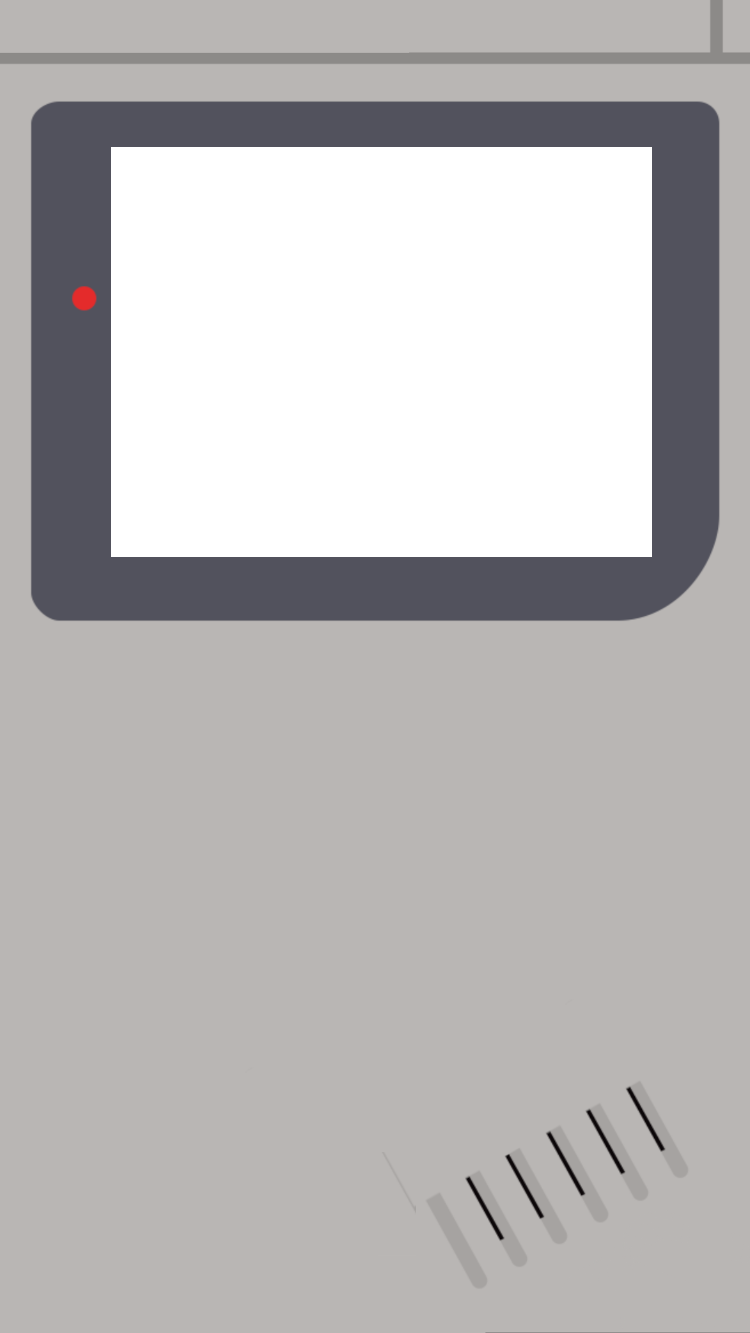
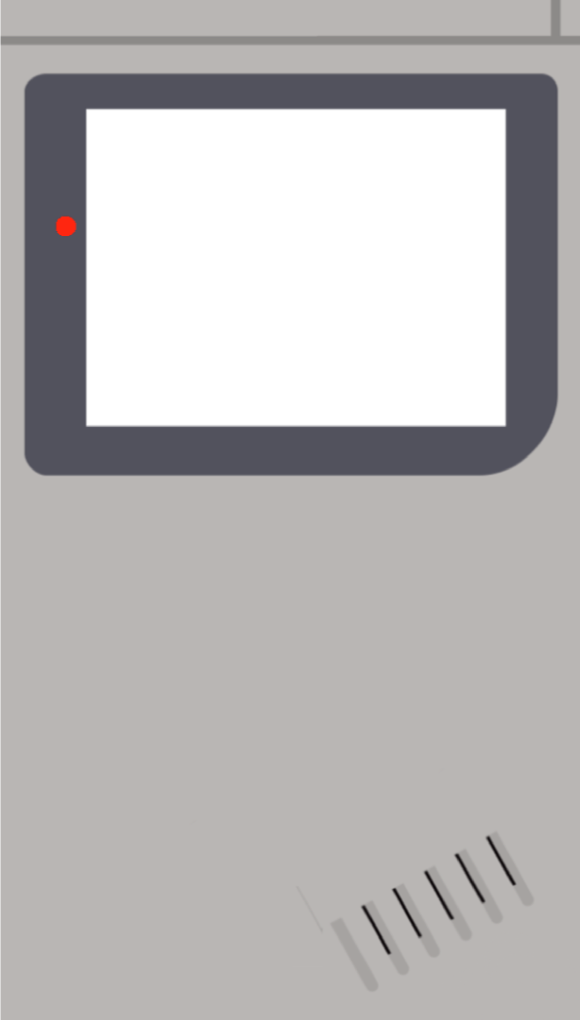
.

diff --git a/utils/UIManager.js b/utils/UIManager.js
@@ -2,11 +2,11 @@ class UIManager {
 	displayBlinkingUIMessage(content, position) {
 		const message0 = add([
 			text(content, {
-				size:34,
+				size:32,
 			}),
 			area(),
 			anchor("center"),
-			pos(380,520),
+			pos(300,160),
 			opacity(),
 			state("flash-up", ["flash-up", "flash-down"])
 			])
@@ -34,10 +34,10 @@ class UIManager {
 	displaySpaceMenu() {
 		add([sprite("black"),
 			anchor("center"),
-			pos(380,350),
+			pos(285,300),
 			scale(1),])
 	this.displayBlinkingUIMessage(
-		"spacebar = power switch")
+		"REMEMBER TO SAVE!")
 	onKeyPress("space", () => {
 		go("menu1")
 	})
@@ -45,45 +45,100 @@ class UIManager {
 	displayMenu() {
 		add([sprite("back00"),
 			anchor("center"),
-			pos(380,350),
-			scale(1),])
+			pos(285,260),
+			scale(.8),])
 		add([sprite("menu00"),
 			anchor("center"),
-			pos(380,255),
-			scale(3)])
+			pos(295,175),
+			scale(2.5)])
 		add([sprite("menu00"),
 			anchor("center"),
-			pos(380,350),
-			scale(3)])
+			pos(295,260),
+			scale(2.5)])
 		add([sprite("menu00"),
 			anchor("center"),
-			pos(380,445),
-			scale(3)])
+			pos(295,345),
+			scale(2.5)])
+
 	}
 	displayFrame() {
-		add([sprite('frame'),])
+		add([sprite("frame"),])
+		add([sprite("pwrbutton"),
+			anchor("center"),
+			pos(58, 440),
+			scale(3)])
+		add([sprite("button00"),
+			anchor("center"),
+			pos(515, 620),
+			scale(6.25)])
 		add([sprite("button01"),
 			anchor("center"),
-			pos(585, 825),
-			scale(6.5)])
-		add([sprite("button01"),
+			pos(400, 650),
+			scale(6.25)])
+		add([sprite("button02"),
 			anchor("center"),
-			pos(460, 865),
-			scale(6.5)])
+			pos(480, 730),
+			scale(6.25)])
+		add([sprite("button03"),
+			anchor("center"),
+			pos(140, 600),
+			scale(5.69)])
+		add([sprite("button03"),
+			anchor("center"),
+			pos(140, 770),
+			scale(5.69),
+			rotate(180)])
+		add([sprite("button03"),
+			anchor("center"),
+			pos(225, 685),
+			scale(5.69),
+			rotate(90)])
+		add([sprite("button03"),
+			anchor("center"),
+			pos(55, 685),
+			scale(5.69),
+			rotate(270)])
 		onKeyPress("space", () => {
 			go("menu0")
 		})
 	}
 	displayFrameOFF() {
 		add([sprite('frameOFF'),])
+		add([sprite("pwrbutton"),
+			anchor("center"),
+			pos(58, 440),
+			scale(3)])
+		add([sprite("button00"),
+			anchor("center"),
+			pos(515, 620),
+			scale(6.25)])
 		add([sprite("button01"),
 			anchor("center"),
-			pos(585, 825),
-			scale(6.5)])
-		add([sprite("button01"),
+			pos(400, 650),
+			scale(6.25)])
+		add([sprite("button02"),
 			anchor("center"),
-			pos(460, 865),
-			scale(6.5)])
+			pos(480, 730),
+			scale(6.25)])
+		add([sprite("button03"),
+			anchor("center"),
+			pos(140, 600),
+			scale(5.69)])
+		add([sprite("button03"),
+			anchor("center"),
+			pos(140, 770),
+			scale(5.69),
+			rotate(180)])
+		add([sprite("button03"),
+			anchor("center"),
+			pos(225, 685),
+			scale(5.69),
+			rotate(90)])
+		add([sprite("button03"),
+			anchor("center"),
+			pos(55, 685),
+			scale(5.69),
+			rotate(270)])
 	}
 	}
 export const uiManager = new UIManager()

diff --git a/utils/loader.js b/utils/loader.js
@@ -1,14 +1,16 @@
 export const load = {
 	fonts: () => {
+		loadFont("GB", "./assets/gb.tff")
 	},
 	assets: () => {
-		loadSprite("frame", "./assets/frame.png")
 		loadSprite("frameOFF", "./assets/frameOFF.png")
+		loadSprite("frame", "./assets/frame.png")
 		loadSprite("button00", "./assets/button00.png")
 		loadSprite("button01", "./assets/button01.png")
 		loadSprite("button02", "./assets/button02.png")
+		loadSprite("button03", "./assets/button03.png")
+		loadSprite("pwrbutton", "./assets/pwr.png")
 		loadSprite("back00", "./assets/back00.png")
-		loadSprite("back01", "./assets/back01.png")
 		loadSprite("brick0", "./assets/brick0.png")
 		loadSprite("orbPlayer", "./assets/orbPlayer.png")
 		loadSprite("black", "./assets/black.png")

diff --git a/main.js b/main.js
@@ -4,9 +4,9 @@ import { uiManager } from "./utils/UIManager.js"
 import { load } from "./utils/loader.js"
 // init kaboomjs
 kaboom({
-	width: 750,
-	height: 1330,
-	scale: 0.69,
+	width: 580,
+	height: 1020,
+	scale:0.69,
 })
 load.assets()
 // scenes
